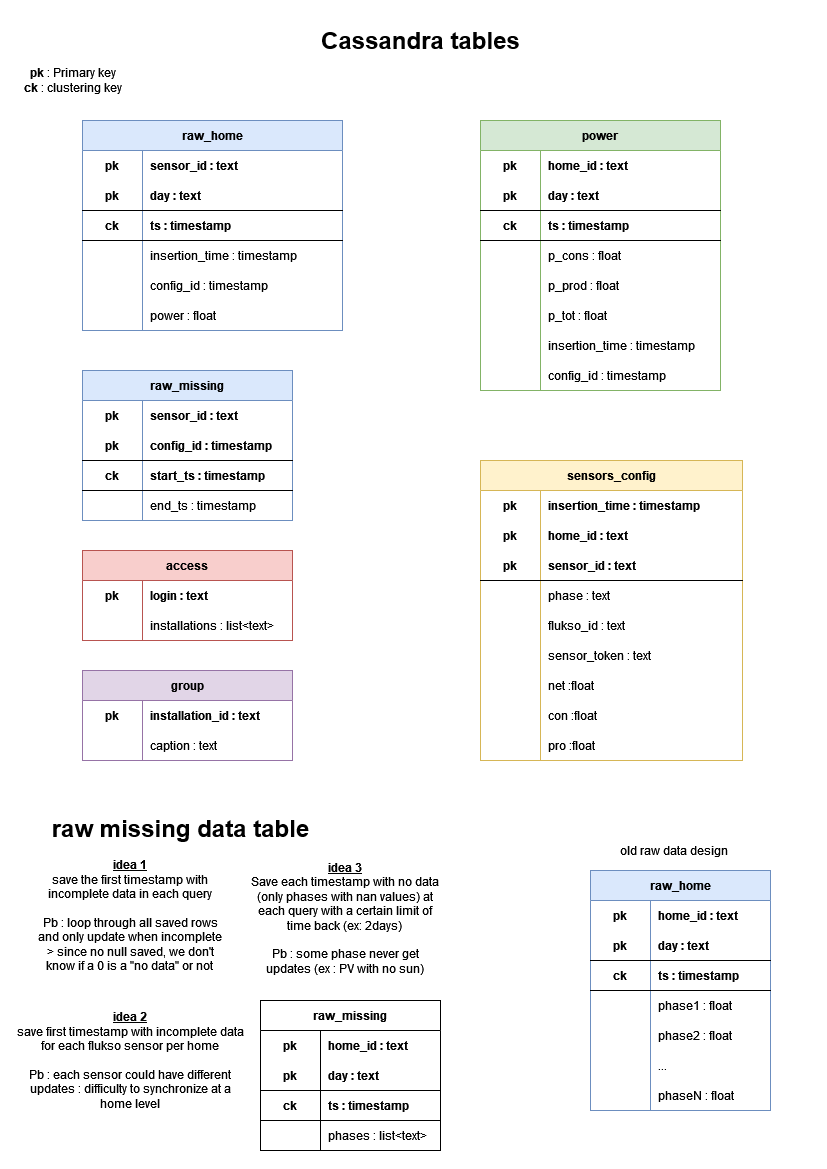
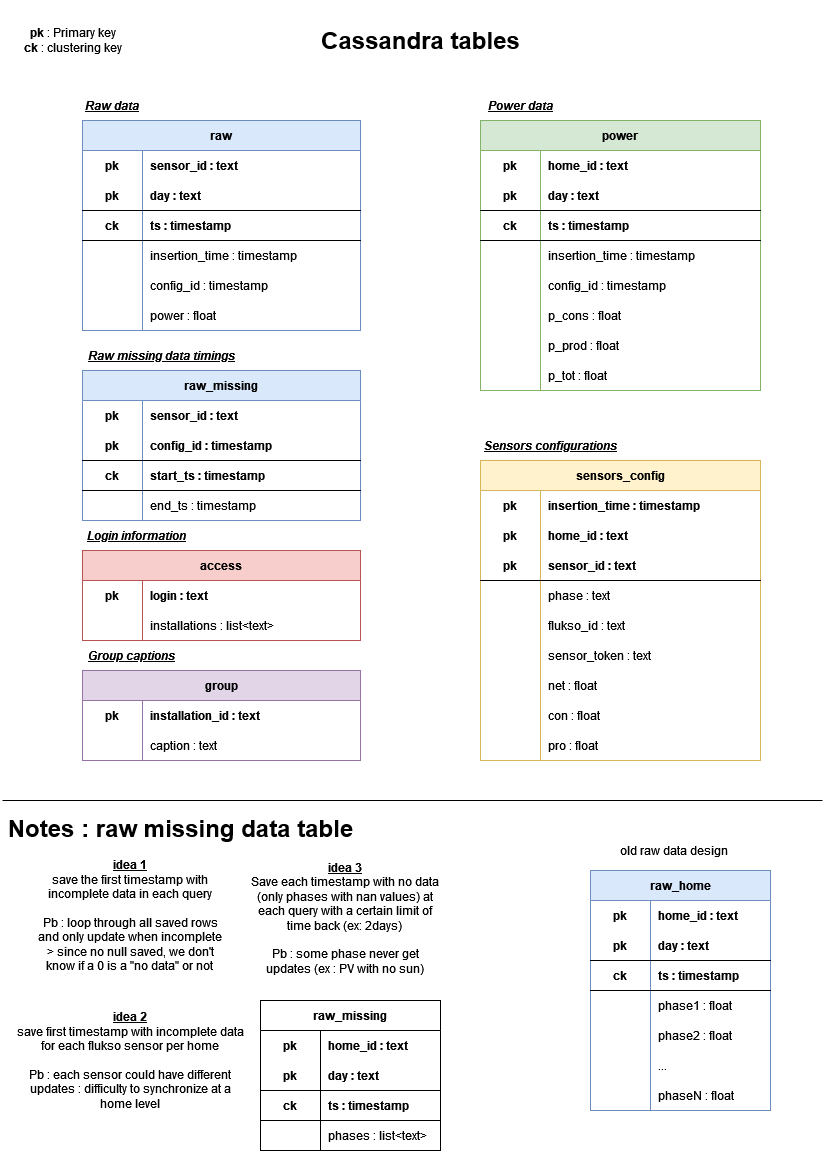
doc : update table doc

diff --git a/fluksoVisualization.py b/fluksoVisualization.py
@@ -10,6 +10,8 @@ Script to fetch Fluksometer data using the tmpo protocol and
     - export it as a CSV file.
     - visualize it (time series)
 
+This script may be obsolete.
+
 Input
 -----
 This script requires to have a file named `sensors.csv` or `updated_sensors.csv` in the "sensors/" directory.

diff --git a/estimateDatabaseSize.py b/estimateDatabaseSize.py
@@ -4,6 +4,12 @@ __author__ = "Alexandre Heneffe"
 __license__ = "MIT"
 __copyright__ = "Copyright 2022 Alexandre Heneffe"
 
+
+""" 
+Estimates the database size using csv files. 
+This script may be obsolete.
+"""
+
 import fluksoVisualization as fv
 import os
 import json

diff --git a/gui.py b/gui.py
@@ -5,6 +5,11 @@ __license__ = "MIT"
 __copyright__ = "Copyright 2022 Alexandre Heneffe"
 
 
+""" 
+this script may be obsolete.
+"""
+
+
 from constants import *
 
 import pandas as pd

diff --git a/README.md b/README.md
@@ -7,10 +7,10 @@
 <br />
 <div align="center">
 
-<h3 align="center">Projet "Voisin d'énergie"</h3>
+<h3 align="center">"Voisin d'énergie"</h3>
 
   <p align="center">
-    Projet en collaboration avec l'Université Libre de Bruxelles - Laboratoire "IRIDIA"
+    Project made in collaboration with ULB (Université Libre de Bruxelles) - IRIDIA laboratory, Innoviris, IGEAT, BinHôme, Energy4Commons and BEAMS.
     <br />
     <a href="https://wiki.voisinsenergie.agorakit.org/"><strong>Wifi de Voisin d'énergie</strong></a>
     <br />
@@ -22,7 +22,7 @@
 
 <!-- TABLE OF CONTENTS -->
 <details>
-  <summary>Table des matières</summary>
+  <summary>Table of contents</summary>
   <ol>
     <li>
       <a href="#about-the-project">About the Project</a>
